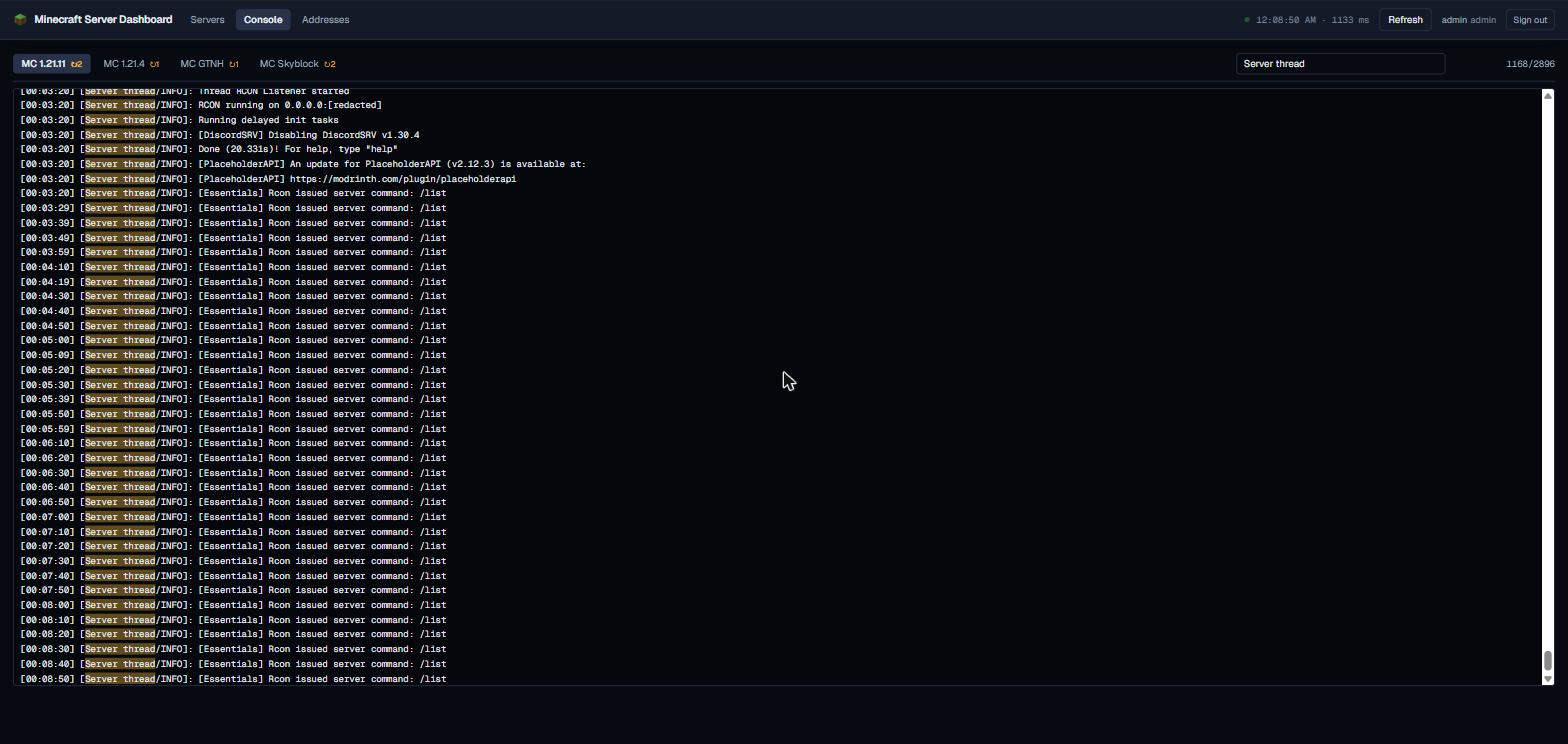
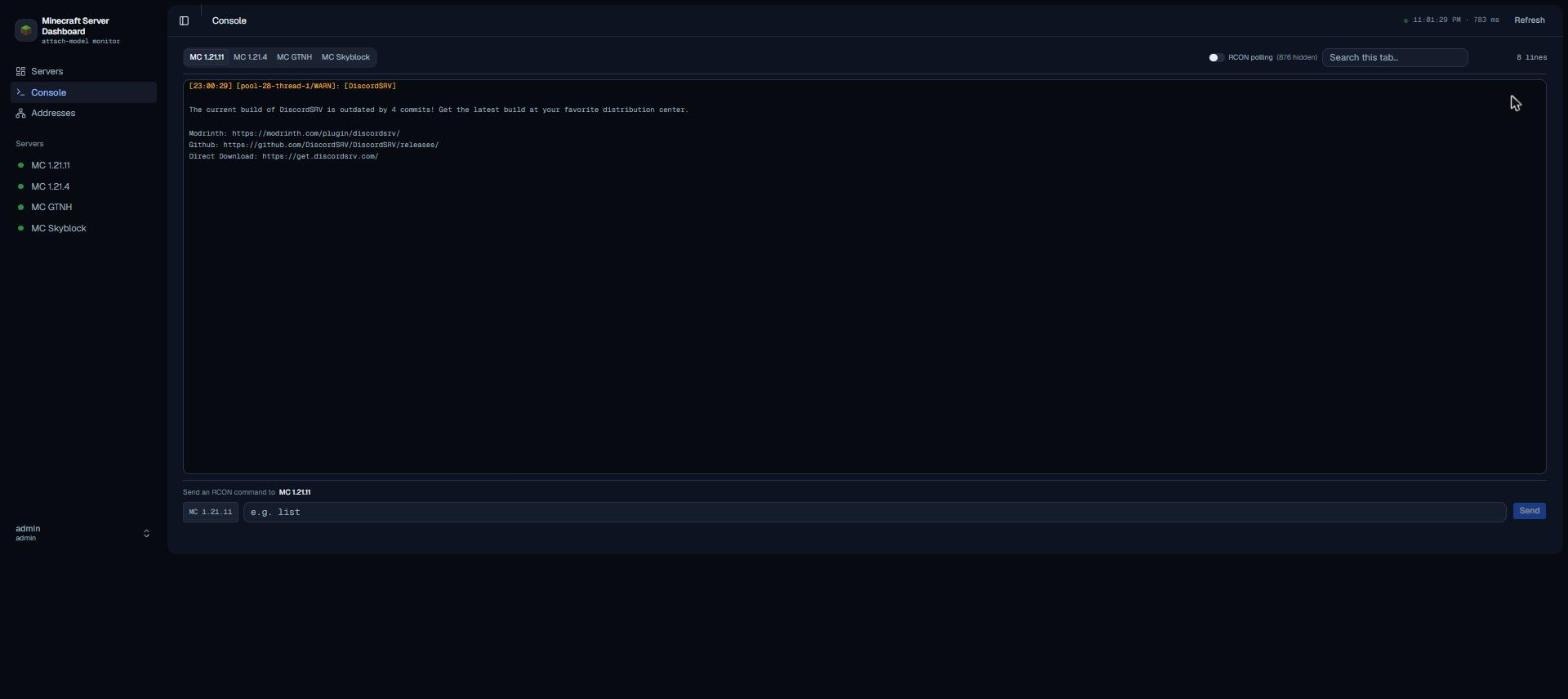
Recapture every README screenshot on the v2 board, redacted
Seven live and rendered shots, 1568x699, PNG with no ancillary chunks (asserted after conversion) and oxipng-optimized. The two gaps the disclosure audit left are closed: all three synthetic states now carry the it-is-synthetic banner in frame (pinned during capture so it cannot scroll out), and the detail view's directory path is masked to C:\Users\<user>.

The console shot is MC 1.21.11 rather than GTNH, whose log prints offline-mode warnings that do not belong in a public README. The RCON-polling filter is visible with its hidden count, which is the view's whole argument.

Recorded in docs/images/README.md: a full page load mid-run killed the redaction loop and put the real public IP back on screen. Nothing was photographed, because the protocol checks the DOM before the shutter as well as after.

Changed region(s): [[0.0, 0.0, 1.0, 0.9313], [0.7812, 0.0, 1.0, 0.03], [0.9688, 0.0601, 1.0, 0.0901]]

diff --git a/docs/images/README.md b/docs/images/README.md
@@ -1,20 +1,24 @@
 # Screenshots
 
-Recaptured 2026-07-31, after the M3.7 redesign. Each `alt` attribute in the root
-README describes what the shot contains; this file records where each one came
-from, because "real" and "rendered" are different claims and a reader should not
-have to guess which.
+Recaptured 2026-07-31 evening, after the v2 departure-board redesign. Each
+`alt` attribute in the root README describes what the shot contains; this file
+records where each one came from, because "real" and "rendered" are different
+claims and a reader should not have to guess which.
 
 | File | Source | Notes |
 | --- | --- | --- |
 | `logo.png` | drawn | A server rack as a Minecraft block. `scratchpad/logo.html` in the session that made it; regenerate with headless Chrome `--screenshot`. Also the mark in the app header. |
-| `servers-healthy.png` | **live** | Four real servers, all healthy. Two had just been restarted through the app's own start route, which is why their boot samples are fresh. |
-| `console.png` | **live** | MC 1.21.11's real log with the search filter active, so the pane shows something other than the dashboard's own RCON polling. RCON listener port replaced with `[redacted]`. |
+| `servers-healthy.png` | **live** | All four real servers on the board, all healthy, nobody online. The RAM column shows real `-Xmx` ceilings read from the java command lines (3 GB Paper, 6 GB GTNH). |
+| `server-detail.png` | **live** | MC GTNH's Overview. Directory path masked to `C:\Users\<user>\`. |
+| `console.png` | **live** | MC 1.21.11's real log. The RCON-polling filter is on, and the count beside it reads `(876 hidden)`, which is the point of the view: what is left is the eight lines that are not the dashboard talking to itself. |
 | `addresses.png` | **live** | Real address table. Public IP replaced with `203.0.113.47` (RFC 5737 documentation range). |
-| `server-detail.png` | **live** | The per-server view. Directory path masked to `C:\Users\<user>\`. |
 | `servers-stalled.png` | rendered | `npm run preview-states`, "One server, healthy host". |
 | `host-wide-event.png` | rendered | `npm run preview-states`, "A host-wide event". |
 | `unknown-explained.png` | rendered | `npm run preview-states`, "A persistent UNKNOWN". |
+
+All seven are 1568x699, converted to PNG with no ancillary chunks
+(`tEXt`/`iTXt`/`zTXt`/`eXIf` all absent, asserted after conversion) and
+optimized with oxipng.
 
 ## Why three of them are rendered
 
@@ -75,7 +79,15 @@ Two things that will bite you:
 - **A redaction observer has to be throttled.** Re-applying the mask on every DOM
   mutation froze the renderer on the console view, which is virtualised and
   mutates on every scroll frame. Debounce it, or apply the mask immediately
-  before each capture and verify immediately after.
+  before each capture and verify immediately after. A 120 ms interval that
+  rewrites matching text nodes works and survives React re-rendering.
+- **A full page load kills the mask.** The 2026-07-31 recapture loaded
+  `preview-states.html` in the middle of the run, and coming back to the SPA
+  was a fresh document with no redaction installed: the operator's real public
+  IP was on screen and would have been photographed. It was caught only because
+  the protocol says to check the DOM *before* pressing the shutter, not just
+  after. Reinstall the mask after any navigation that is not a hash change, and
+  never trust that it is still running.
 - **The console follows its own tail.** Setting `scrollTop` does not survive the
   next batch of lines. Use the search filter to decide what is on screen.
 
